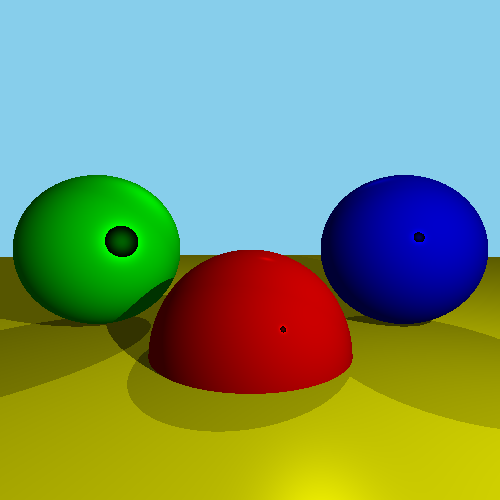
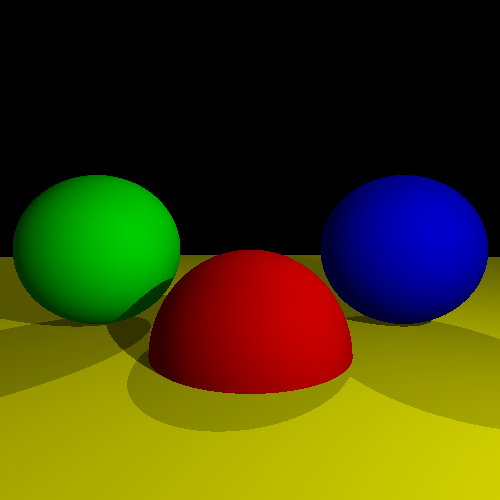
fixed some more things.

diff --git a/ray/scene.py b/ray/scene.py
@@ -4,6 +4,8 @@ from time import sleep
 from ray.camera import *
 from ray.geometry import *
 from ray.quat import *
+from math import inf
+from random import random
 
 
 class Scene():
@@ -13,86 +15,88 @@ class Scene():
         self.camera = camera
         self.background_color = background_color
         self.max_depth = max_depth
-        self.image = np.zeros(  
-            (self.camera.canvas_width, self.camera.canvas_height, 3), dtype=np.uint8)
+        self.image = np.zeros((self.camera.canvas_width, self.camera.canvas_height, 3), dtype=np.uint8)
 
     def ray_trace(self, ray):
-        
         closest_object, closest_t = self.calculate_intersection(ray)
-
-        intersect = ray.calculate_point(closest_t)
-
         if closest_object != 0:
-            return closest_object.color * self.shade(intersect, closest_object.get_normal(intersect), ray.direction * -1, closest_object.specular)
+            intersect = ray.calculate_point(closest_t)
+            return closest_object.color * self.shade(intersect, closest_object.get_normal(intersect), ray.direction.conjugate(), closest_object.specular)
         else:
             return self.background_color
     
     def calculate_intersection(self, ray):
-        closest_t = self.camera.t_max+1
+        closest_t = self.camera.t_max + 1
         closest_object = 0
         for object in self.objects:
             if type(object) == Sphere:
                 t0, t1 = object.get_t(ray)
 
-                if self.camera.t_min <= t0 <= self.camera.t_max and closest_t > t0:
+                if self.camera.t_min <= t0 <= self.camera.t_max and t0 < closest_t:
                     closest_t = t0
                     closest_object = object
                 
-                if self.camera.t_min <= t1 <= self.camera.t_max and closest_t > t1:
+                if self.camera.t_min <= t1 <= self.camera.t_max and t1 < closest_t:
                     closest_t = t1
                     closest_object = object
 
             elif type(object) == Plane:
-                t = object.get_t(ray)
-                closest_t = t
+                closest_t = object.get_t(ray)
                 closest_object = object
 
         return closest_object, closest_t
 
     def shade(self, point, normal, vector, specular):
-        amount = 0
-        distance = 0
+        intensity = 0
         for light in self.lights:
             t = type(light)
             if t == AmbientLight:
-                amount += light.intensity
+                intensity += light.intensity
             else:
                 if t == PointLight:
-                    distance = light.position - point
+                    direction = light.position - point
+                    self.camera.t_max = 1
                 else:
-                    distance = light.direction   
+                    direction = light.direction
+                    self.camera.t_max = inf
                 
-                shadowing_object, shadow_distance = self.calculate_intersection(Ray(point, distance))
-                if shadowing_object != 0:
+                object, _ = self.calculate_intersection(Ray(point, direction))
+                if object != 0:
                     continue
                 
-                nd = normal.dot(distance)
+                nd = normal.dot(direction)
                 if nd > 0:
-                    amount += light.intensity * nd / (normal.magnitude() * distance.magnitude())
+                    intensity += light.intensity * nd / (abs(normal) * abs(direction))
 
+                '''
                 if specular != -1:
-                    reflection = normal * 2 * normal.dot(distance) - distance
-                    rv = reflection.dot(vector)
+                    r = normal * 2 * normal.dot(direction) - direction
+                    rv = r.dot(vector)
                     if rv > 0:
-                        amount += light.intensity*(rv / (reflection.magnitude() * vector.magnitude()))**specular
-
-        return amount
+                        intensity += light.intensity * (rv / (abs(r) * abs(vector)))**specular
+                '''
+                 
+        return intensity
     
     def to_color(self, q): return [q.x, q.y, q.z]
+
+    def reflect(self, vector, normal):
+        return vector - 2 * vector.normal * normal
 
     def save_image(self, file_name):
         img = Image.fromarray(self.image, 'RGB')
         img = img.rotate(90)  # because PIL is weird, this is needed
         img.save(file_name)
 
-    def render(self, update, file_name, n_frames):
+    def render(self, update, file_name, n_frames, n_samples):
         while n_frames > 0:
             n_frames -= 1
             for x in range(self.camera.canvas_width):
                 for y in range(self.camera.canvas_height):
                     origin = self.camera.direction * self.camera.translate_coords(x, y)
-                    direction = (origin - self.camera.position).norm()
-                    color = self.ray_trace(Ray(origin, direction))
+                    color = self.ray_trace(Ray(origin, (origin - self.camera.position).norm()))
+
                     self.image[x, y] = self.to_color(color)
+
             self.save_image(file_name)
             update()

diff --git a/better_raytracer.py b/better_raytracer.py
@@ -17,12 +17,6 @@ scene = Scene(
     camera=camera,
     objects=[
         Sphere(
-            center=Quat(0, 0, -5001, 0),
-            radius=5000,
-            color=Quat(0, 255, 255, 0),
-            specular=100
-        ),
-        Sphere(
             center=Quat(0, 0, -1, 3), 
             radius=1, 
             color=Quat(0, 255, 0, 0), 
@@ -32,13 +26,19 @@ scene = Scene(
             center=Quat(0, 2, 0, 4), 
             radius=1, 
             color=Quat(0, 0, 0, 255),
-            specular=100
+            specular=500
         ),
         Sphere(
             center=Quat(0, -2, 0, 4), 
             radius=1, 
             color=Quat(0, 0, 255, 0),
             specular=10
+        ),
+        Sphere(
+            center=Quat(0, 0, -5001, 0),
+            radius=5000,
+            color=Quat(0, 255, 255, 0),
+            specular=1000
         )
     ],
     lights=[
@@ -46,14 +46,13 @@ scene = Scene(
         PointLight(intensity=0.6, position=Quat(0, 2, 1, 0)),
         DirectionalLight(intensity=0.2,  direction=Quat(0, 1, 4, 4))
     ],
-    background_color=Quat(0, 135, 206, 235),
+    background_color=Quat(0, 0, 0, 0),
     max_depth=1
 )
 
 def update():
-    pass
-    #scene.objects[1].center.z += 0.1
-    #scene.objects[1].center.y += 0.1
+    scene.objects[1].center.z += 0.1
+    print('done rendering frame')
 
     
-scene.render(update, file_name='images/balls.png', n_frames=1000)
+scene.render(update, file_name='images/balls.png', n_frames=1, n_samples=10)

diff --git a/ray/quat.py b/ray/quat.py
@@ -41,11 +41,11 @@ class Quat():
     def dot(self, q):
         return self.w * q.w + self.x * q.x + self.y * q.y + self.z * q.z
 
-    def magnitude(self):
-        return (self.w ** 2 + self.x**2 + self.y**2 + self.z**2) ** 0.5
+    def __abs__(self):
+        return (self.w**2 + self.x**2 + self.y**2 + self.z**2) ** 0.5
 
     def norm(self):
-        m = self.magnitude()
+        m = (self.w**2 + self.x**2 + self.y**2 + self.z**2) ** 0.5
         return Quat(self.w / m, self.x / m, self.y / m, self.z / m)
 
 

diff --git a/ray/camera.py b/ray/camera.py
@@ -29,4 +29,3 @@ class Camera():
         vy = y * (self.viewport_height / self.canvas_height)
 
         return Quat(0, vx, vy, self.distance)
-
